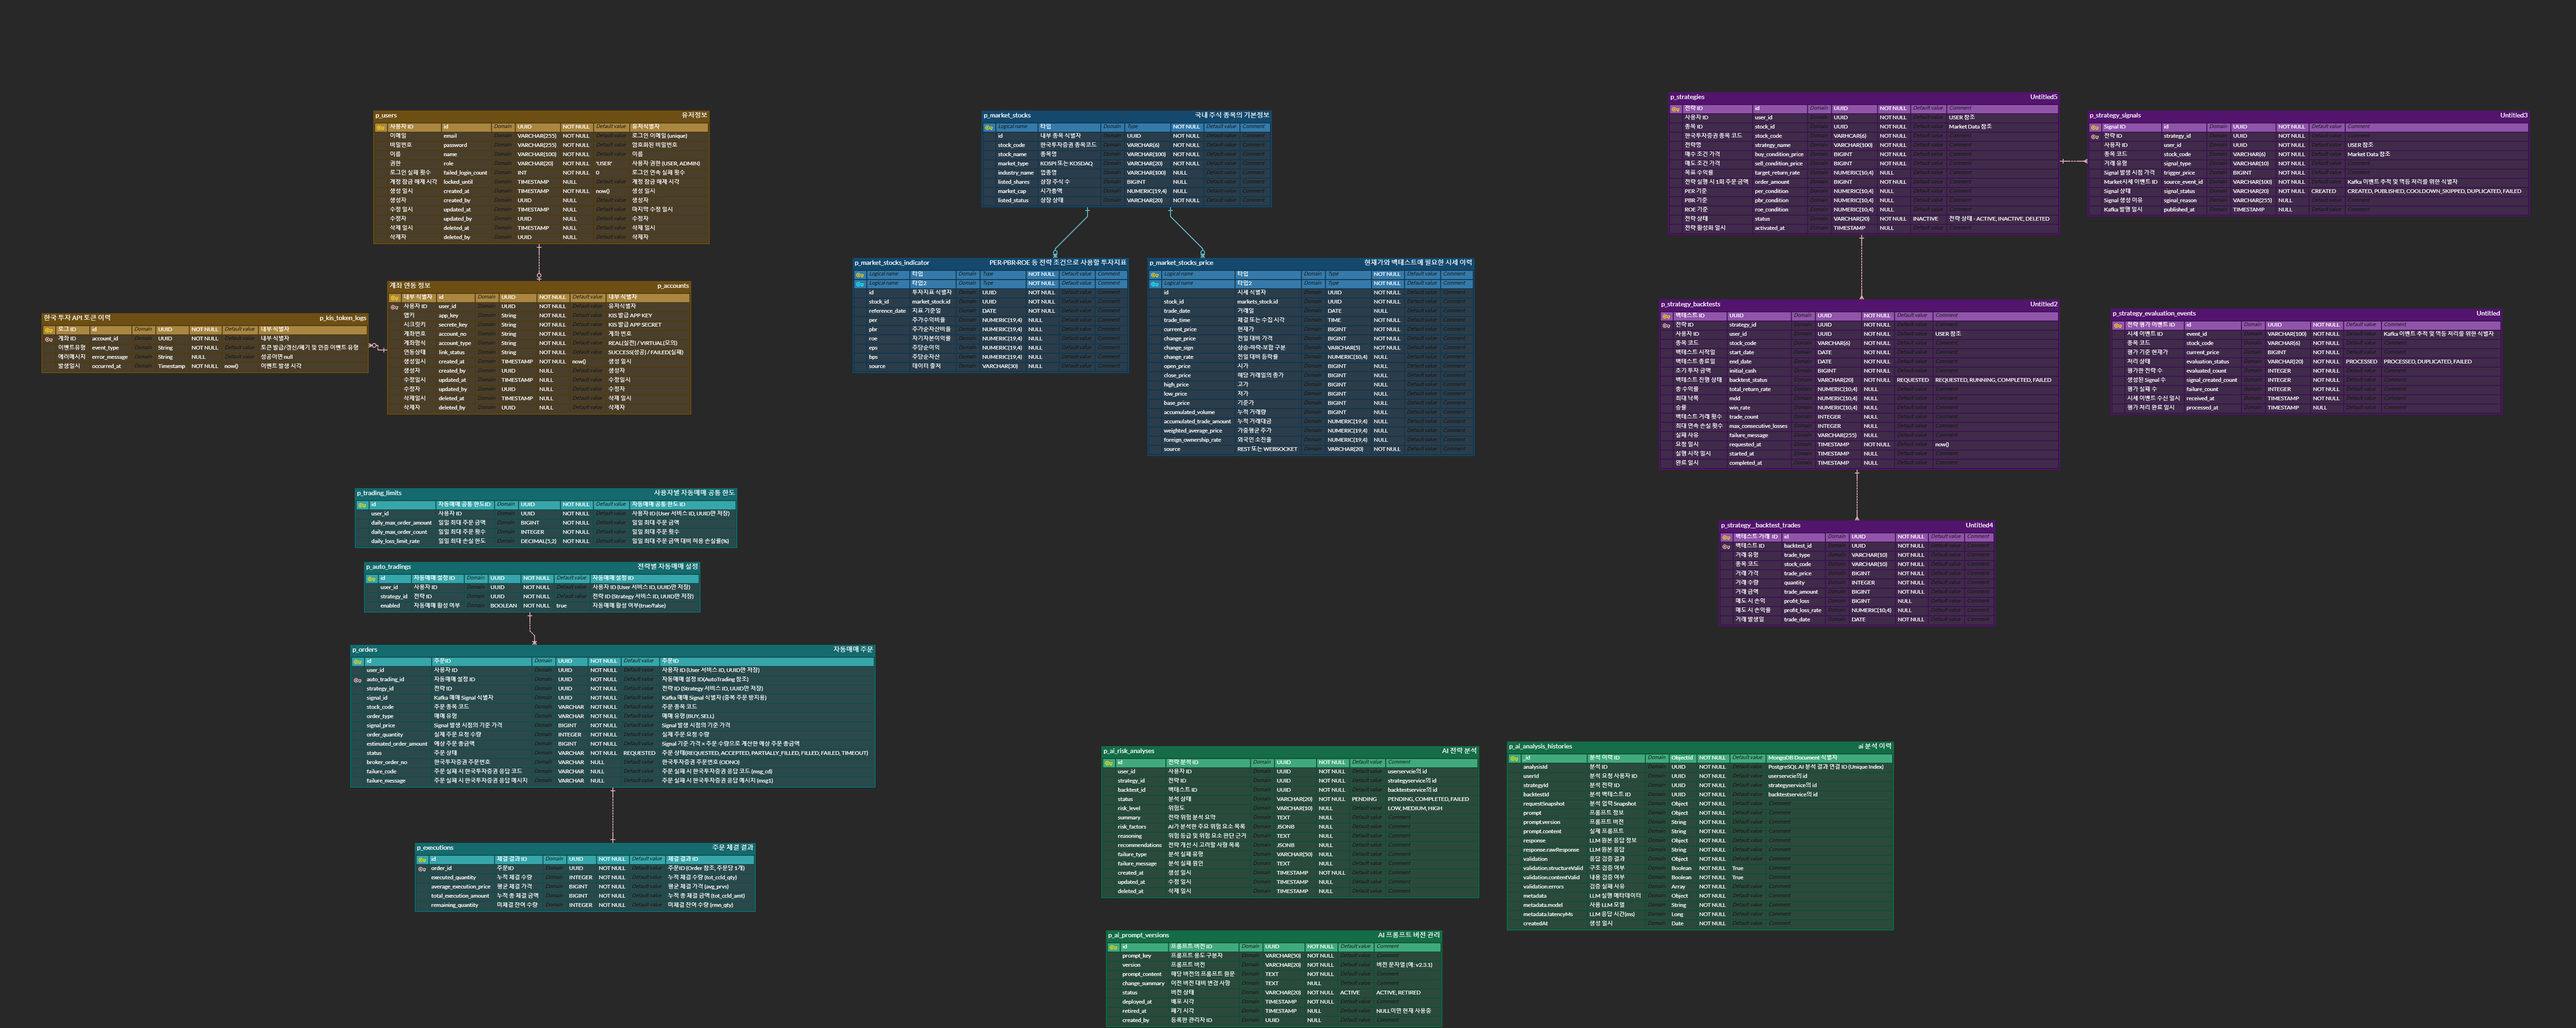
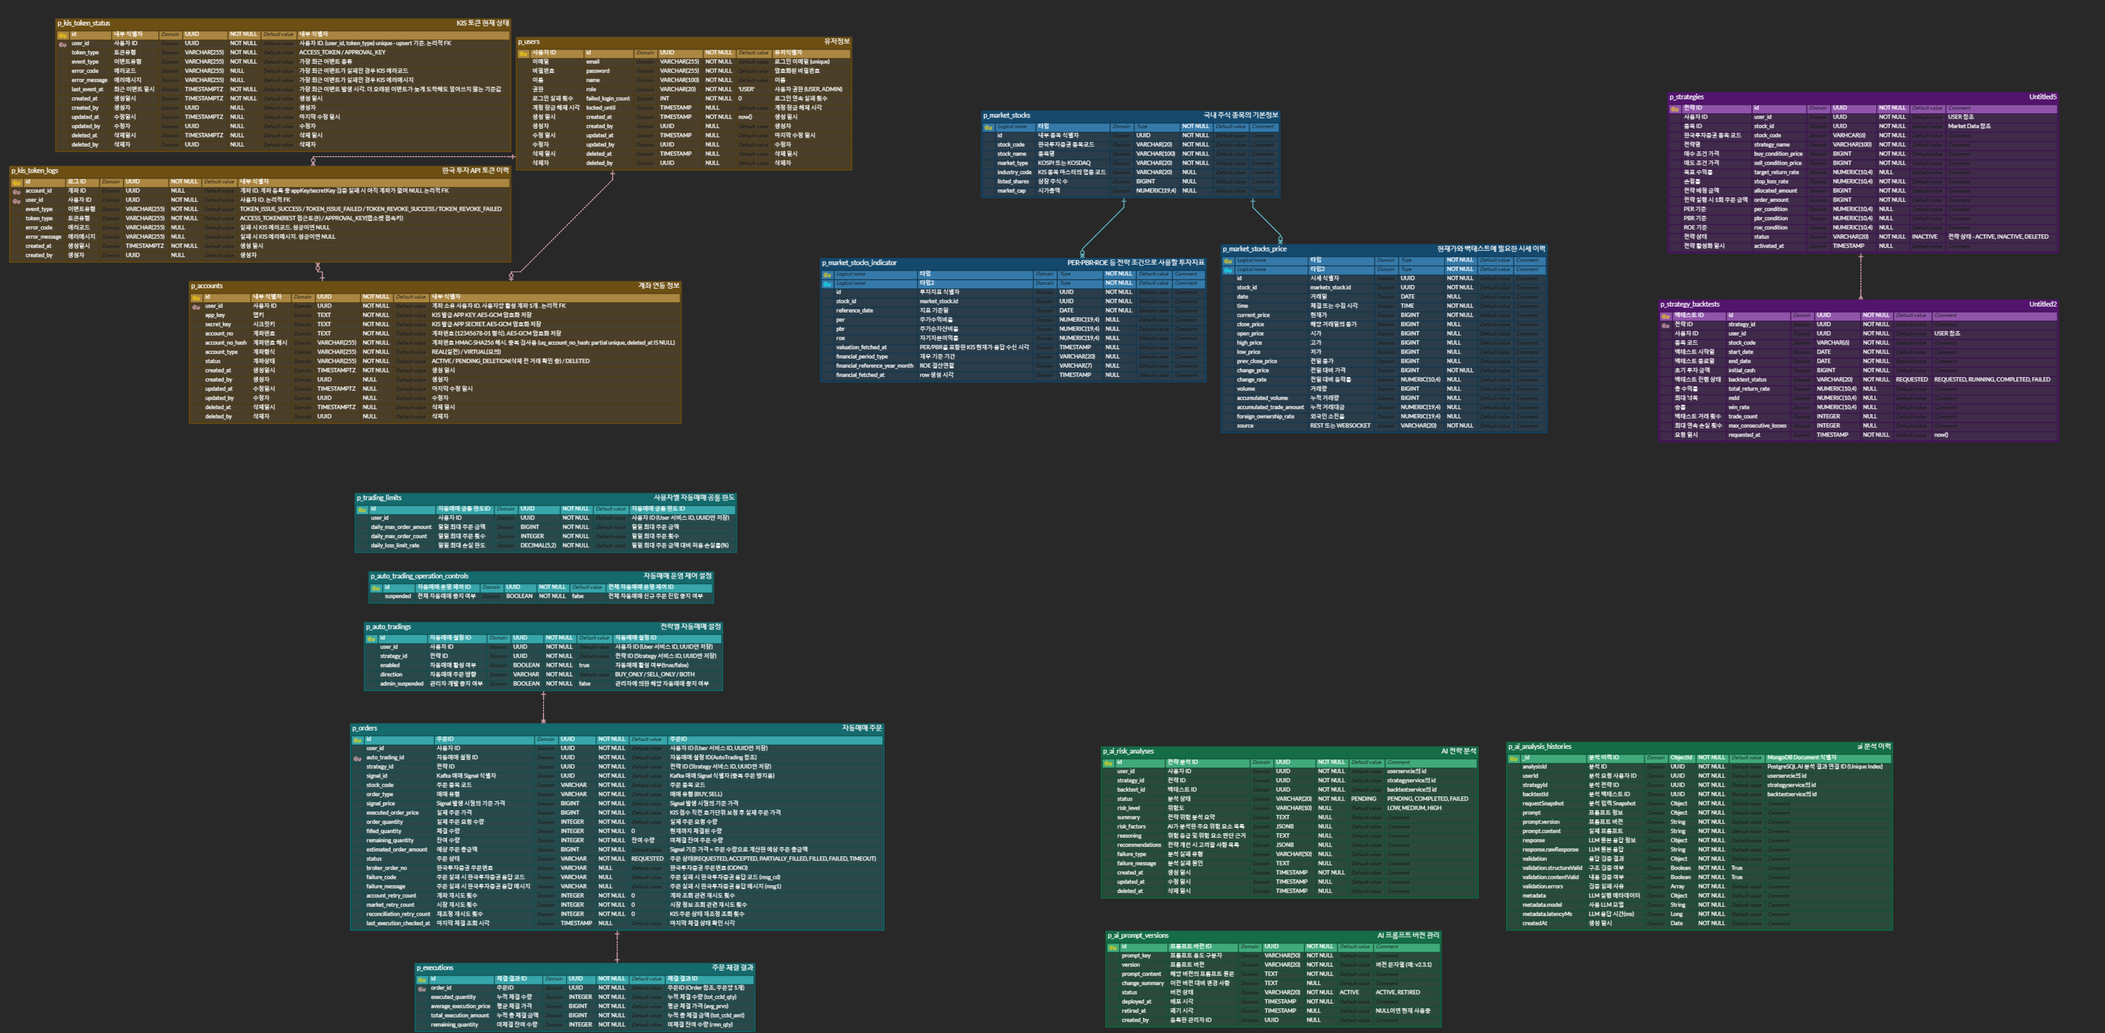
Fix(docs) : env 변수 및 배너 추가

diff --git a/README.md b/README.md
@@ -1,4 +1,11 @@
-# 📈 4JO
+<h1>
+  <img src="docs/4jo-logo-green.svg" width="48" align="center" />
+  4JO
+</h1>
+
+<p align="center">
+  <img src="docs/banner.jpg" width="100%"/>
+</p>
 
 ### 투자 전략 위험 분석 및 자동매매 서비스
 
@@ -72,11 +79,11 @@
 
 | 🔐 회원 · 계좌 | 📈 시세 | 🎯 전략 | 📊 백테스트 |
 |:---:|:---:|:---:|:---:|
-| ✅ 회원가입 / 로그인<br>✅ JWT 인증<br>✅ Refresh Token 관리<br>✅ KIS 계좌 연동<br>✅ 잔고 / 보유종목 조회 | ✅ 종목 검색<br>✅ 현재가 조회<br>✅ 투자지표 조회<br>✅ WebSocket 실시간 시세<br>✅ Redis 시세 캐싱 | ✅ 투자 전략 CRUD<br>✅ 매수 / 매도 조건 설정<br>✅ PER · PBR · ROE 조건<br>✅ 목표수익률 / 손절률 설정<br>✅ 전략 활성화 / 비활성화 | ✅ 기간 기반 백테스트<br>✅ 총 수익률<br>✅ MDD<br>✅ 승률<br>✅ 최대 연속 손실 |
+| 회원가입 / 로그인<br>JWT 인증<br>Refresh Token 관리<br>KIS 계좌 연동<br>잔고 / 보유종목 조회 | 종목 검색<br>현재가 조회<br>투자지표 조회<br>WebSocket 실시간 시세<br>Redis 시세 캐싱 | 투자 전략 CRUD<br>매수 / 매도 조건 설정<br>PER · PBR · ROE 조건<br>목표수익률 / 손절률 설정<br>전략 활성화 / 비활성화 | 기간 기반 백테스트<br>총 수익률<br>MDD<br>승률<br>최대 연속 손실 |
 
 | 🤖 AI 위험 분석 | ⚡ 자동매매 | 💰 주문 · 체결 | 🛠 운영 · 지원 |
 |:---:|:---:|:---:|:---:|
-| ✅ AI 위험 등급<br>✅ 주요 위험 요소<br>✅ 판단 근거<br>✅ 개선 고려사항<br>✅ Prompt Version / Audit | ✅ 실시간 전략 평가<br>✅ Kafka Signal 처리<br>✅ 중복 Signal 방지<br>✅ 사용자 승인 전략만 실행<br>✅ 주문 직전 검증 | ✅ KIS 모의 주문<br>✅ 주문 / 체결 조회<br>✅ 주문 상태 관리<br>✅ Timeout 상태 관리<br>✅ Reconciliation | ✅ 서비스 / 호스트 모니터링<br>✅ 메트릭 · 로그 수집<br>✅ 분산 트레이싱<br>✅ Slack 장애 알림<br>✅ RAG 고객 응대 |
+| AI 위험 등급<br>주요 위험 요소<br>판단 근거<br>개선 고려사항<br>Prompt Version / Audit | 실시간 전략 평가<br>Kafka Signal 처리<br>중복 Signal 방지<br>사용자 승인 전략만 실행<br>주문 직전 검증 | KIS 모의 주문<br>주문 / 체결 조회<br>주문 상태 관리<br>Timeout 상태 관리<br>Reconciliation | 서비스 / 호스트 모니터링<br>메트릭 · 로그 수집<br>분산 트레이싱<br>Slack 장애 알림<br>RAG 고객 응대 |
 
 <br>
 
@@ -297,44 +304,119 @@ cd sajo
 프로젝트 실행에 필요한 환경 변수를 설정합니다.
 
 ```env
-# Spring
-SPRING_PROFILES_ACTIVE=
+# =========================
+# Database
+# =========================
 
-# PostgreSQL
-DB_URL=
-DB_USERNAME=
-DB_PASSWORD=
+DB_PASSWORD=                         # PostgreSQL 접속 비밀번호
+MONGO_PASSWORD=                      # MongoDB 접속 비밀번호
 
-# MongoDB
-MONGODB_URI=
-
+# =========================
 # Redis
-REDIS_HOST=
-REDIS_PORT=
+# =========================
 
-# Kafka
-KAFKA_BOOTSTRAP_SERVERS=
+REDIS_PASSWORD=                      # Redis 접속 비밀번호
 
-# JWT
-JWT_SECRET=
+# =========================
+# Authentication & Security
+# =========================
 
-# KIS Open API
-KIS_APP_KEY=
-KIS_APP_SECRET=
+JWT_SECRET=                          # 로그인 토큰 발급/검증 (32자 이상 권장)
+INTERNAL_API_SECRET=                 # 서비스 간 내부 API 인증
 
+ACCOUNT_ENCRYPTION_KEY=              # 계좌정보 암호화
+ACCOUNT_ENCRYPTION_SALT=             # 계좌정보 암호화 Salt
+ACCOUNT_HASH_KEY=                    # 계좌정보 해시
+
+# =========================
+# Config Server
+# =========================
+
+GITHUB_USERNAME=                     # config-repo 접근 (로컬용)
+GITHUB_TOKEN=                        # config-repo 접근 (로컬용)
+ENCRYPT_KEY=                         # Config Server 값 암호화
+
+# =========================
 # OpenAI
-OPENAI_API_KEY=
+# =========================
+
+OPENAI_API_KEY=                      # OpenAI API 키
+
+# =========================
+# RAG Support Chat
+# =========================
+
+SUPPORT_RAG_ENABLED=false            # RAG 챗봇 on/off
+SPRING_AI_CHAT_MODEL=none            # RAG Chat Model 활성화
+SPRING_AI_EMBEDDING_MODEL=none       # RAG Embedding Model 활성화
+SUPPORT_RAG_CHAT_MODEL_NAME=gpt-4o-mini # RAG 응답 모델
+
+# =========================
+# Market Scheduler
+# =========================
+
+MARKET_SCHEDULER_ENABLED=false       # 시세 스케줄러 on/off
+MARKET_SCHEDULER_SYSTEM_USER_ID=     # 스케줄러 구동용 시스템 계정
+
+MARKET_STOCK_MASTER_SYNC_ENABLED=false # 종목 마스터 동기화 on/off
+
+# 평일 16:10 일별 시세 수집
+MARKET_SCHEDULER_DAILY_PRICE_CRON="0 10 16 * * MON-FRI"
+
+# 투자지표 수집 스케줄러
+MARKET_INDICATOR_SCHEDULER_ENABLED=false
+MARKET_INDICATOR_SCHEDULER_CRON="0 20 16 * * MON-FRI"
+
+# KIS API Rate Limit 방지를 위한 호출 간격
+MARKET_SCHEDULER_KIS_REQUEST_INTERVAL=1100ms
+
+# 스케줄러 대상 종목 코드 (쉼표로 구분)
+# 예: 삼성전자(005930), 현대차(005380), 카카오(035720)
+MARKET_SCHEDULER_TARGET_STOCK_CODES=005930,005380,035720
+
+# =========================
+# KIS WebSocket
+# =========================
+
+MARKET_WEBSOCKET_ENABLED=false       # 실시간 시세 on/off
+MARKET_WEBSOCKET_SYSTEM_USER_ID=     # WebSocket 구동용 시스템 계정
+
+# 실시간 구독 대상 종목 코드 (쉼표로 구분)
+# 예: 삼성전자(005930), SK하이닉스(000660)
+MARKET_WEBSOCKET_TARGET_STOCK_CODES=005930,000660
+
+# =========================
+# Monitoring
+# =========================
+
+GRAFANA_ADMIN_USER=admin             # Grafana 관리자 계정
+GRAFANA_ADMIN_PASSWORD=              # Grafana 관리자 비밀번호
+
+SLACK_WEBHOOK_URL=                   # 장애/알림 Slack 발송
 ```
 
-> 실제 서비스별 환경 변수는 각 서비스 설정을 참고하세요.
+> 실제 Secret 값은 저장소에 커밋하지 않으며, 로컬 `.env` 또는 배포 환경의 Secret으로 관리합니다.
 
-### 3. Run
+### 3. GitHub Actions Secrets
+
+배포 및 자동화 Workflow에서 사용하는 값은 애플리케이션 `.env`와 별도로 GitHub Actions Secrets에서 관리합니다.
+
+| Secret | 용도 |
+|---|---|
+| `EC2_USER` | 배포 서버 SSH 계정 |
+| `EC2_HOST` | 배포 서버 주소 |
+| `EC2_SSH_KEY` | 배포 서버 SSH Private Key |
+| `CONFIG_REPO_GITHUB_USERNAME` | Config Server의 `sajo-config-repo` 접근 계정 |
+| `CONFIG_REPO_GITHUB_TOKEN` | Config Server의 `sajo-config-repo` 접근 토큰 |
+| `CLAUDE_CODE_OAUTH_TOKEN` | PR 자동 코드 리뷰 Workflow 인증 |
+
+### 4. Run
 
 ```bash
 docker compose up -d
 ```
 
-### 4. Stop
+### 5. Stop
 
 ```bash
 docker compose down
